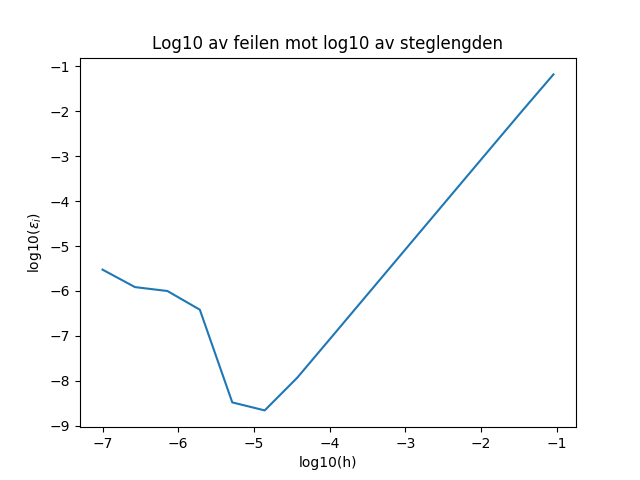
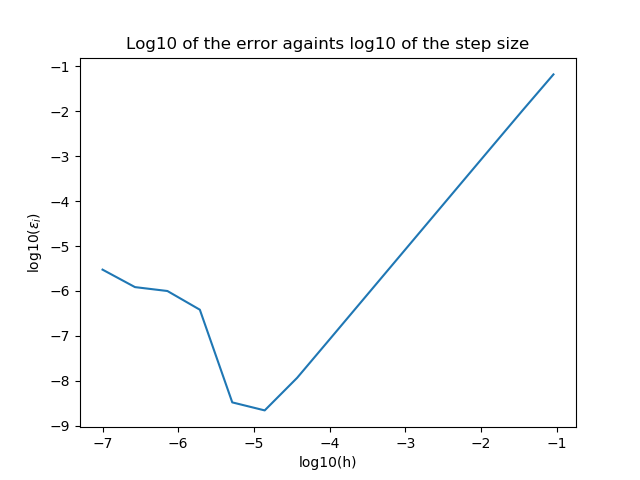
relative error

Changed region(s): [[0.1875, 0.0625, 0.8438, 0.125], [0.0312, 0.4688, 0.0625, 0.5]]

diff --git a/Code/Python/relative_error.py b/Code/Python/relative_error.py
@@ -46,8 +46,8 @@ print("|-----------------|----------------|")
 for i in range(len(epsilon)):
     print("| "+str(epsilon[i])+" | "+str(np.log10(h[i]))+" |")
 
-plt.title("Log10 av feilen mot log10 av steglengden")
+plt.title("Log10 of the error againts log10 of the step size")
 plt.xlabel("log10(h)")
 plt.ylabel("log10($\epsilon_i$)")
 plt.plot(np.log10(h), epsilon)
-plt.savefig("relative_error_plot.png")
+plt.savefig("relative_error.png")

diff --git a/Document/Markdown/Project-1_Aasrud-Raniseth-Rongve.md b/Document/Markdown/Project-1_Aasrud-Raniseth-Rongve.md
@@ -161,8 +161,12 @@ v_{i}=\tilde{d}_{i}-\tilde{c}_{i}v_{i+1}
 
 This also runs using O(n) FLOPs, but by simplifying our algorithm the number of FLOPs decreases from **9n** to **6n**.
 
+## Project 1 d)
 ### Relative error
+The special Thomas algorithm is compared against the analytical solution and the relative error is calculated. This is done using this formula:
+$$\epsilon_{i}=\log_{10}\left(\left|\frac{v_{i}-u_{i}}{u_{i}}\right|\right)$$
 
+where $v$ is the numerical solution and $u$ is the analytical solution. For each step size, the maximum value of the $\epsilon_{i}$'s is found and stored.
 
 ## Project 1 e)
 To compare the TDMA function with an LU decomposition we first put both functions in one code to be ran at the same time. For the LU decomposition we decided to use _lu_factor_ and _lu_decompose_ from the _scipy.linalg_ library. The execution time was counted with _clock()_ from the _time_ library in Python. The counting  started at the start of the recursive algorithm, and were stopped immediately after.
@@ -201,29 +205,29 @@ The program `special_tdma_function.py` is based on our specialized Thomas algori
 Its not fully apparent at small matrix sizes, but once they get big, the reduction in FLOPs makes a difference. This is because the overhead in the _scipy.linalg.lu_solve_ function is relatively big for small $n$'s.
 
 ## Project 1 d)
-The program (`relative_error.py`) gives this result:
+The program (`relative_error.py`) gives these results:
 
 ![**Figure 2**: log10($\epsilon$) vs log10(h)](..\Images\relative_error.png)
 
-| Relative error  | log(Step size) |
+| Relative error  | $log_{10}(\text{Step size})$ |
 |-----------------|----------------|
-| -1.179697782181123 | -1.041392685158225 |
-| -1.97626186756762 | -1.4471580313422192 |
-| -2.806234336204043 | -1.863322860120456 |
-| -3.6548424003077447 | -2.287801729930226 |
-| -4.5095240233346425 | -2.7151673578484576 |
-| -5.365211937857104 | -3.143014800254095 |
-| -6.222366463482809 | -3.571592383361307 |
-| -7.079285134039305 | -4.000043427276863 |
-| -7.93346055078429 | -4.428588297668614 |
-| -8.65847844870895 | -4.857151502687493 |
-| -8.480115168181095 | -5.285717045991711 |
-| -6.4173203251240185 | -5.714286160427356 |
-| -6.000981018219917 | -6.14285730089358 |
-| -5.914135318231038 | -6.57142872052209 |
-| -5.525230018275306 | -7.000000043429446 |
+| -1.17969778218 | -1.04139268516 |
+| -1.97626186757 | -1.44715803134 |
+| -2.8062343362 | -1.86332286012 |
+| -3.65484240031 | -2.28780172993 |
+| -4.50952402333 | -2.71516735785 |
+| -5.36521193786 | -3.14301480025 |
+| -6.22236646348 | -3.57159238336 |
+| -7.07928513404 | -4.00004342728 |
+| -7.93346055078 | -4.42858829767 |
+| -8.65847844871 | -4.85715150269 |
+| -8.48011516818 | -5.28571704599 |
+| -6.41732032512 | -5.71428616043 |
+| -6.00098101822 | -6.14285730089 |
+| -5.91413531823 | -6.57142872052 |
+| -5.52523001828 | -7.00000004343 |
 
-Where we see that when the log10 of stepsize goes below -5, we are losing presicion fast.
+We see that when the $\log_{10}$ of the step size goes below -5, we are losing precision fast.
 
 
 ## Project 1 e)
